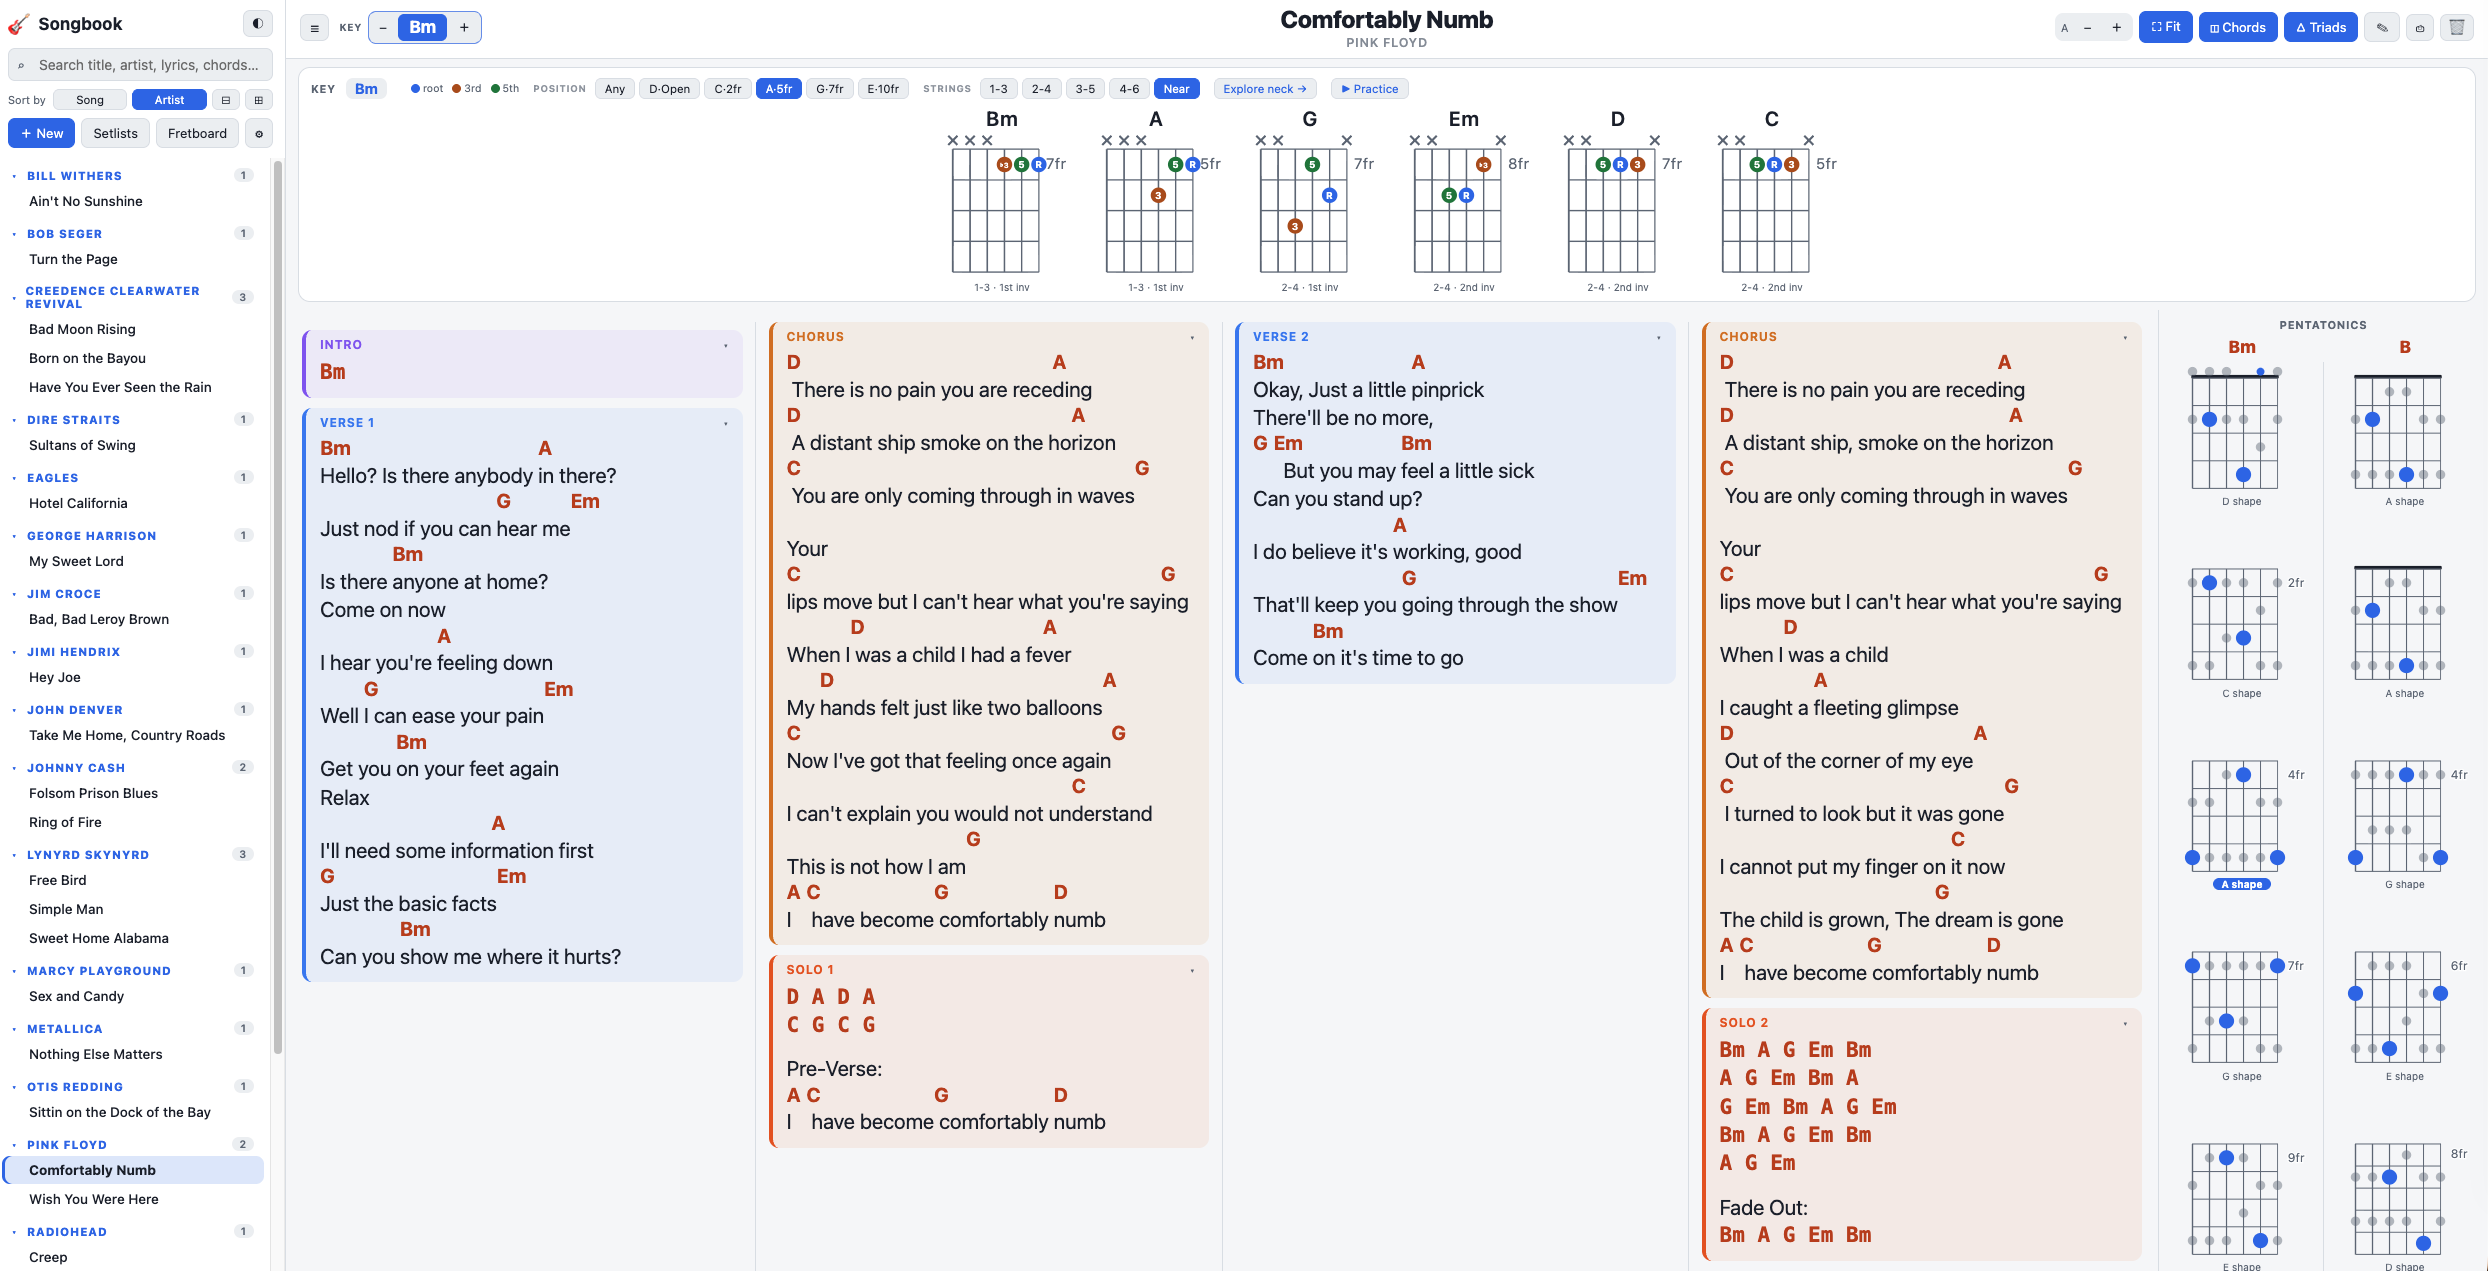
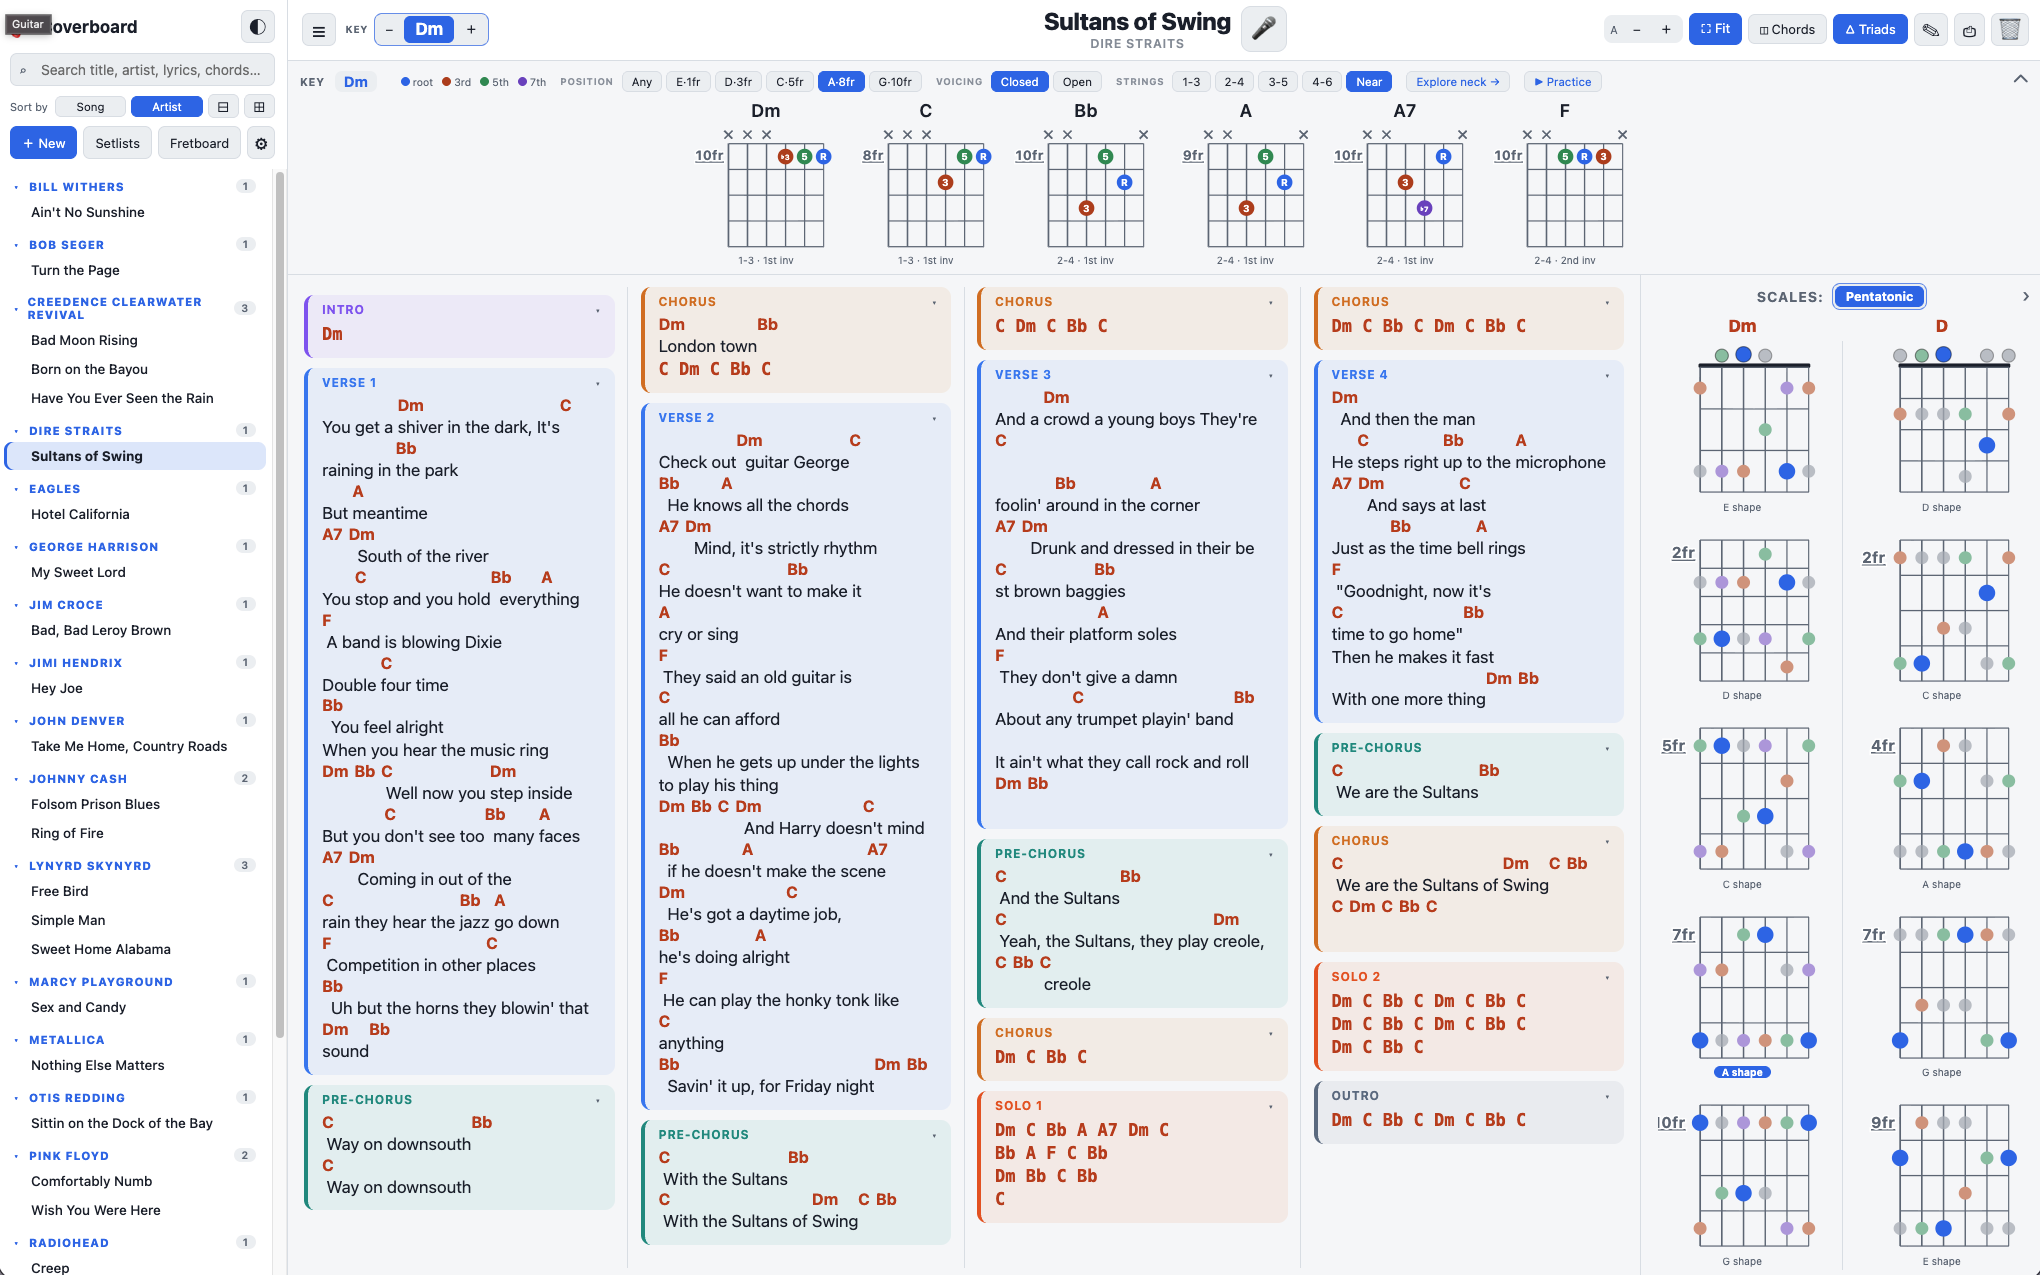
Refresh social card image (Coverboard-branded screenshot)

diff --git a/index.html b/index.html
@@ -13,8 +13,8 @@
 <meta property="og:description" content="Free, open-source guitar songbook: paste any chord sheet, play whole songs as CAGED triads one position at a time. Sing, and the lyrics follow you.">
 <meta property="og:url" content="https://neurokinetikz.github.io/coverboard/">
 <meta property="og:image" content="https://neurokinetikz.github.io/coverboard/assets/og.png">
-<meta property="og:image:width" content="2488">
-<meta property="og:image:height" content="1271">
+<meta property="og:image:width" content="2040">
+<meta property="og:image:height" content="1275">
 <meta name="twitter:card" content="summary_large_image">
 <meta name="twitter:title" content="Coverboard — uncage your CAGED triads">
 <meta name="twitter:description" content="Free, open-source guitar songbook: paste any chord sheet, play whole songs as CAGED triads one position at a time.">